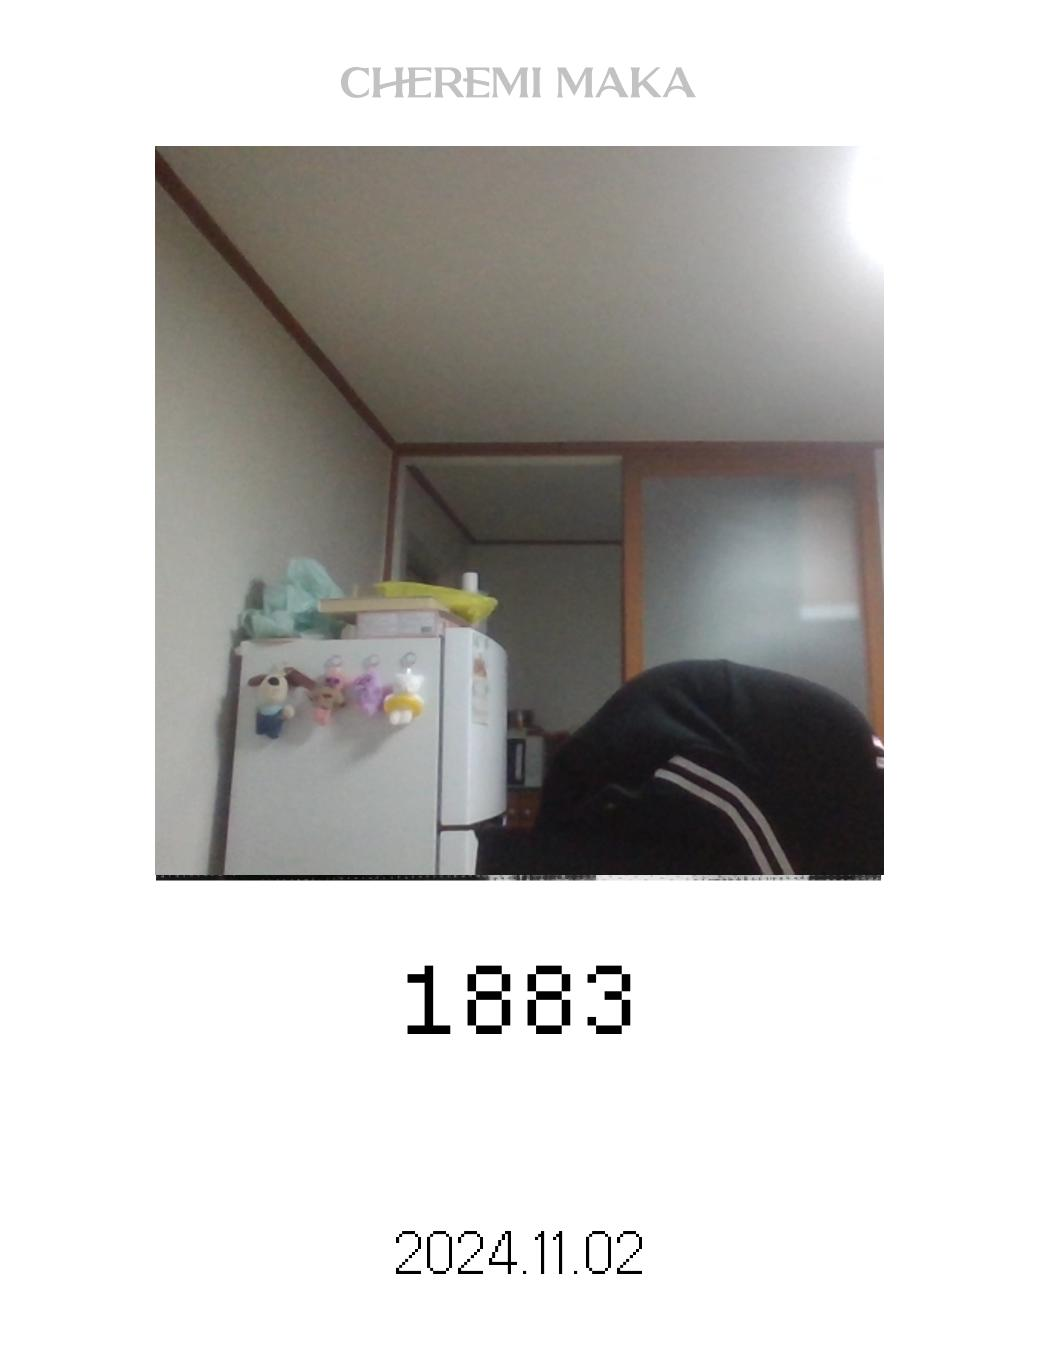
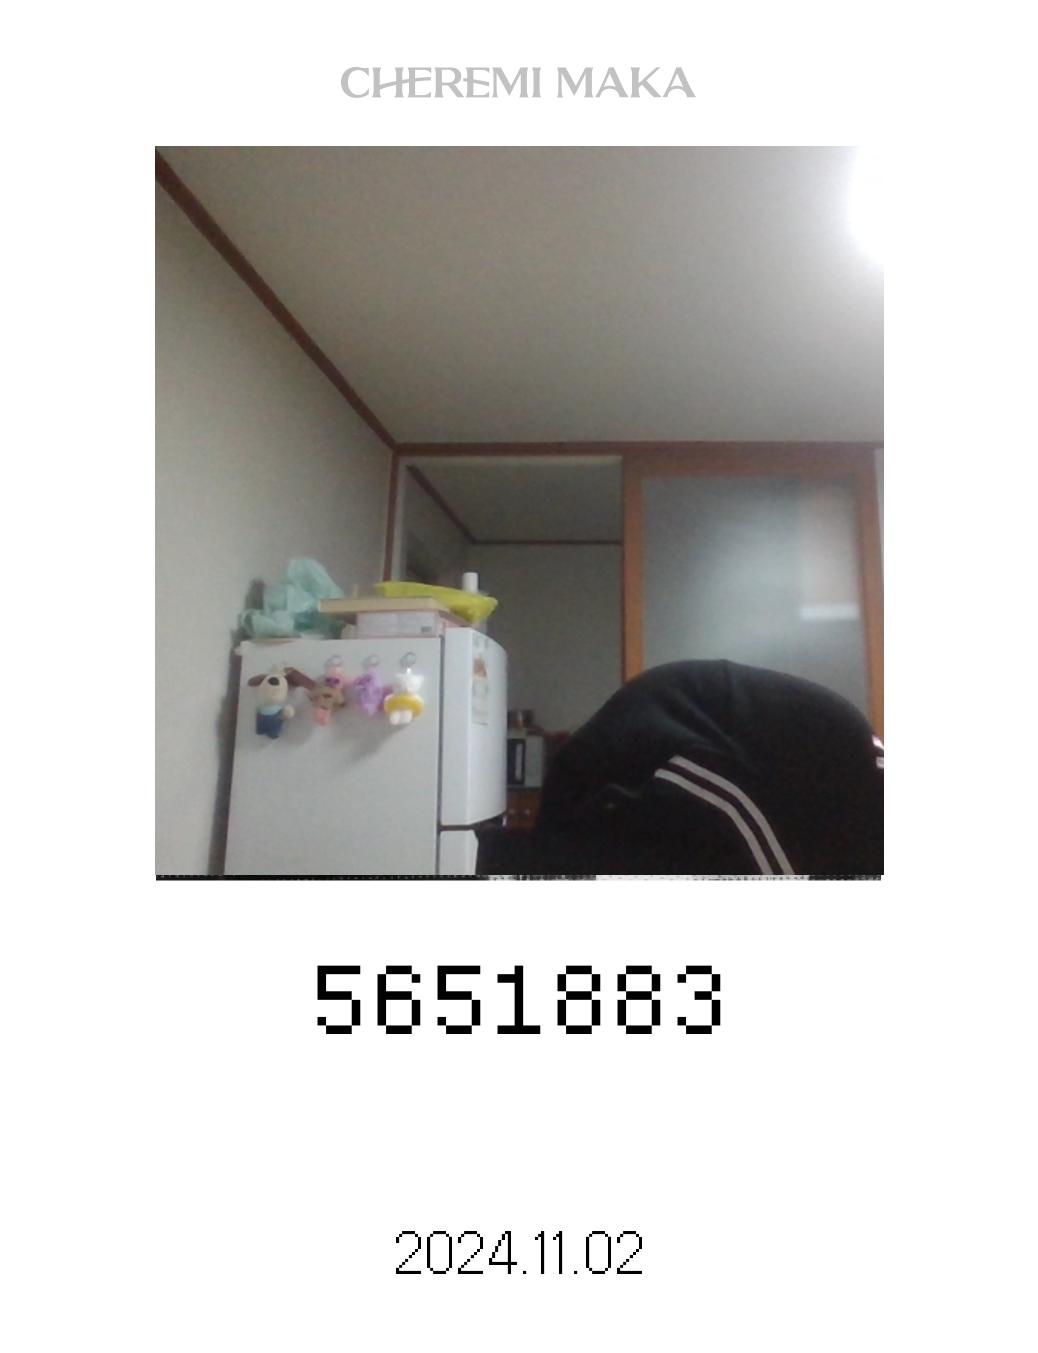
base64 인코딩해서 넘김

Changed region(s): [[0.3083, 0.714, 0.7091, 0.7761]]

diff --git a/app.py b/app.py
@@ -3,6 +3,7 @@ from PIL import Image, ImageDraw, ImageFont
 from pathlib import Path
 import shutil
 import time
+import base64
 
 app = FastAPI()
 
@@ -67,7 +68,13 @@ def process_image(image_file: str, number: str):
     output_path = UPLOAD_DIR / "output.jpg"
     background.save(output_path, "jpeg")  # PNG로 저장
 
-    return output_path
+    # 이미지를 Base64로 인코딩하여 React로 전달할 수 있게 변환
+    with open(output_path, "rb") as img_file:
+        encoded_string = base64.b64encode(img_file.read()).decode('utf-8')
+
+    return encoded_string  # Base64 인코딩된 이미지 데이터 반환
+
+
 
 # FastAPI 라우팅 부분
 @app.post("/process-image/")
@@ -79,12 +86,12 @@ async def process_image_api(file: UploadFile = File(...), number: str = Form(...
 
     # 이미지 처리 함수 호출
     start_time = time.time()
-    output_path = process_image(image_path, number)
+    encoded_image = process_image(image_path, number)
     end_time = time.time()
 
     return {
         "message": "Image processed successfully.",
-        "output_image": str(output_path),
+        "output_image": encoded_image,  # Base64 인코딩된 이미지 데이터
         "processing_time": end_time - start_time
     }
 

diff --git a/main.py b/main.py
@@ -9,7 +9,7 @@ UPLOAD_DIR.mkdir(exist_ok=True)
 # 숫자에 대응하는 메시지를 설정하는 부분 (필요시 추가 가능)
 def process_image(image_file: str, number: str):
     # 사용자로부터 입력받은 숫자를 찾음
-    text = "1883"  # 없는 숫자는 입력받은 숫자로 처리
+    text = "5651883"  # 없는 숫자는 입력받은 숫자로 처리
 
     # 웹캠 이미지를 Pillow로 열기
     img = Image.open(image_file)
@@ -64,7 +64,7 @@ def process_image(image_file: str, number: str):
     # # 결과 이미지를 저장 (JPG 형식)
     output_path = UPLOAD_DIR / "output.jpg"
     background.save(output_path, "jpeg")  # JPG로 저장
-    
+
 
     print(f"Image processed successfully. Output saved at: {output_path}")
 
